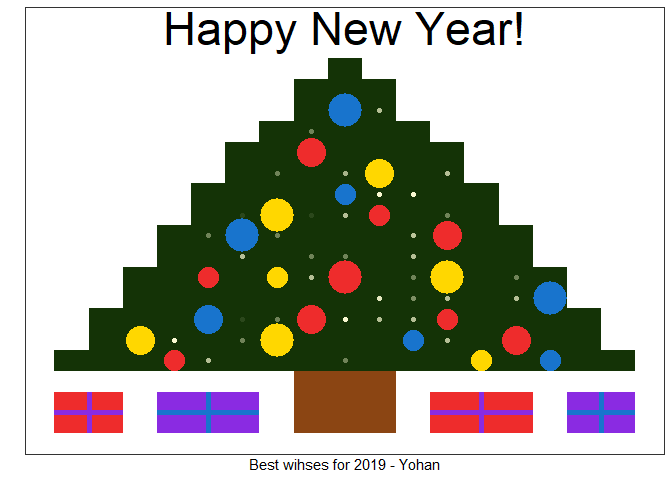
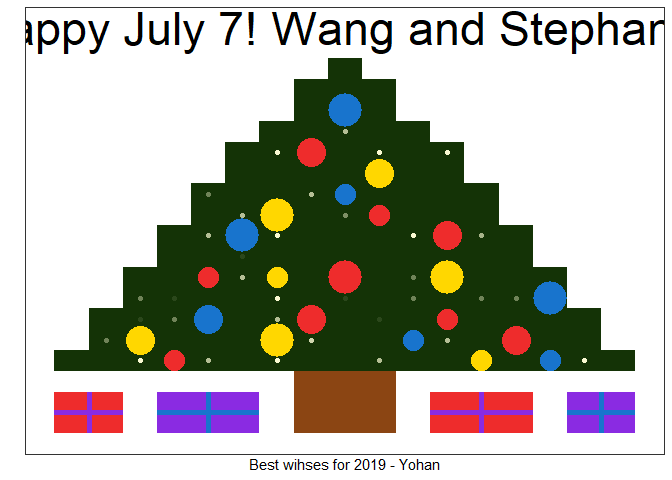
update tree

Changed region(s): [[0.0312, 0.0, 1.0, 0.125]]

diff --git a/ChristmasTree.md b/ChristmasTree.md
@@ -99,7 +99,7 @@ tree <- tree +
 
 tree1 <- tree +
   annotate("text",
-           x = 11, y = 20, label = "Happy New Year!",
+           x = 11, y = 20, label = "Happy July 7! Wang and Stephano!",
            family = "Luminari", size = 12
   )
 
@@ -117,5 +117,5 @@ tree1
 ---
 title: "ChristmasTree.R"
 author: "Yohan_Min"
-date: "Sat Jan 19 17:57:59 2019"
+date: "2019-07-07"
 ---
